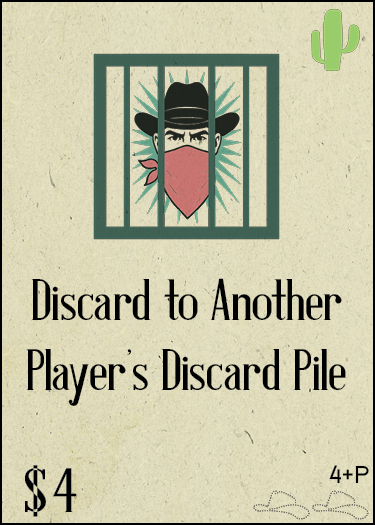
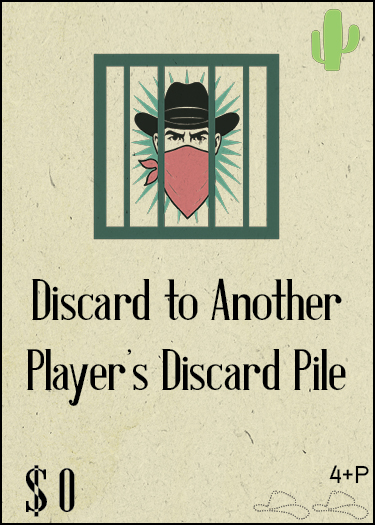
Update card 66 cost from $5 to $0

Changed region(s): [[0.0587, 0.8838, 0.2053, 1.0]]

diff --git a/play.js b/play.js
@@ -772,7 +772,7 @@ const STORE_CARDS = [
   { id: 'card_63', img: 'Cards_63.jpg', act: 2, minPlayers: 4, dollars: 1, cows:  0, bandits:  0, cost: 2, cacti: 2, special: 'trash_for_2' },
   { id: 'card_64', img: 'Cards_64.jpg', act: 2, minPlayers: 4, dollars: 2, cows:  0, bandits:  0, cost: 4, cacti: 2, special: null },
   { id: 'card_65', img: 'Cards_65.jpg', act: 2, minPlayers: 4, dollars: 0, cows:  0, bandits:  0, cost: 4, cacti: 2, special: 'copy_next' },
-  { id: 'card_66', img: 'Cards_66.jpg', act: 2, minPlayers: 4, dollars: 0, cows:  0, bandits: -1, cost: 5, cacti: 2, special: 'discard_to_player' },
+  { id: 'card_66', img: 'Cards_66.jpg', act: 2, minPlayers: 4, dollars: 0, cows:  0, bandits: -1, cost: 0, cacti: 2, special: 'discard_to_player' },
 
   // --- ACT 3 ---
   // River (Blue) – 1 cacti  [2P: IDs 19-25]

diff --git a/sim/game-core.js b/sim/game-core.js
@@ -95,7 +95,7 @@ const STORE_CARDS = [
   { id: 'card_63', act: 2, minPlayers: 4, dollars: 1, cows:  0, bandits:  0, cost: 2, cacti: 2, special: 'trash_for_2' },
   { id: 'card_64', act: 2, minPlayers: 4, dollars: 2, cows:  0, bandits:  0, cost: 4, cacti: 2, special: null },
   { id: 'card_65', act: 2, minPlayers: 4, dollars: 0, cows:  0, bandits:  0, cost: 4, cacti: 2, special: 'copy_next' },
-  { id: 'card_66', act: 2, minPlayers: 4, dollars: 0, cows:  0, bandits: -1, cost: 5, cacti: 2, special: 'discard_to_player' },
+  { id: 'card_66', act: 2, minPlayers: 4, dollars: 0, cows:  0, bandits: -1, cost: 0, cacti: 2, special: 'discard_to_player' },
 
   // --- ACT 3 ---
   // River (Blue) – 1 cacti  [2P]
